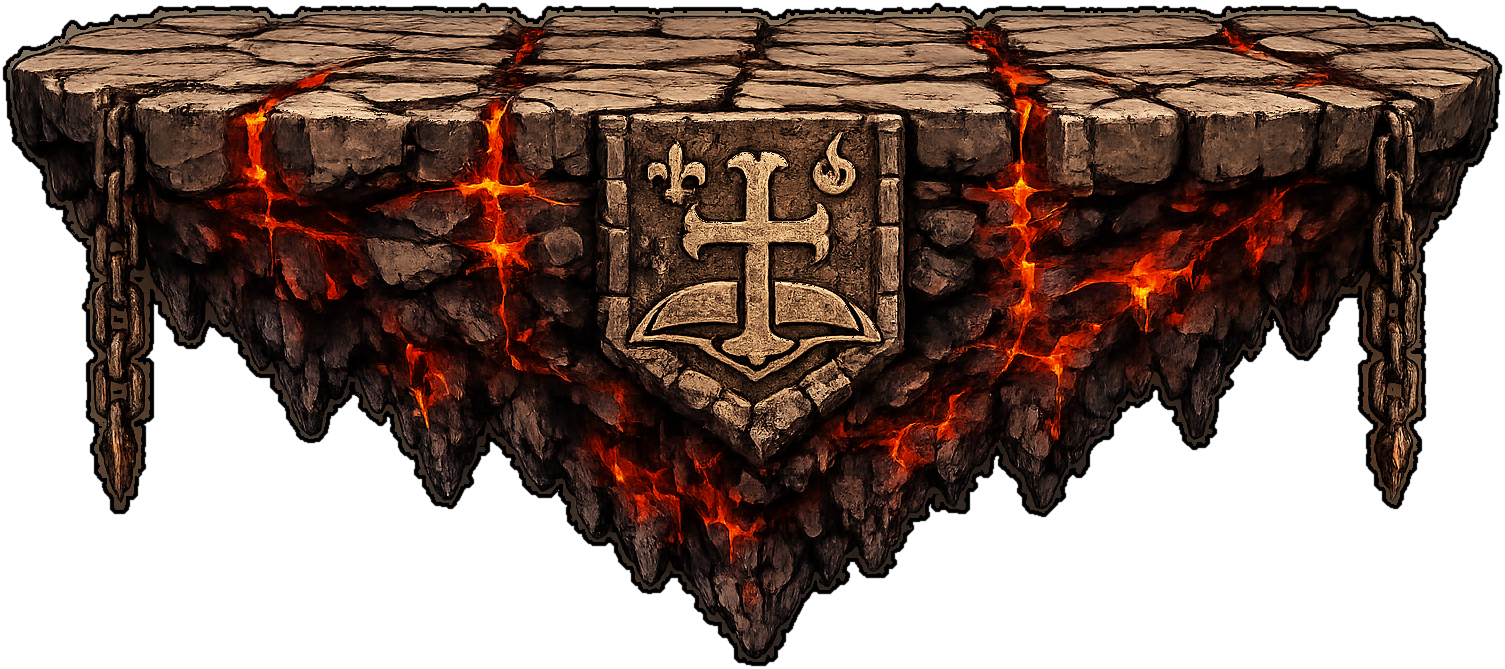
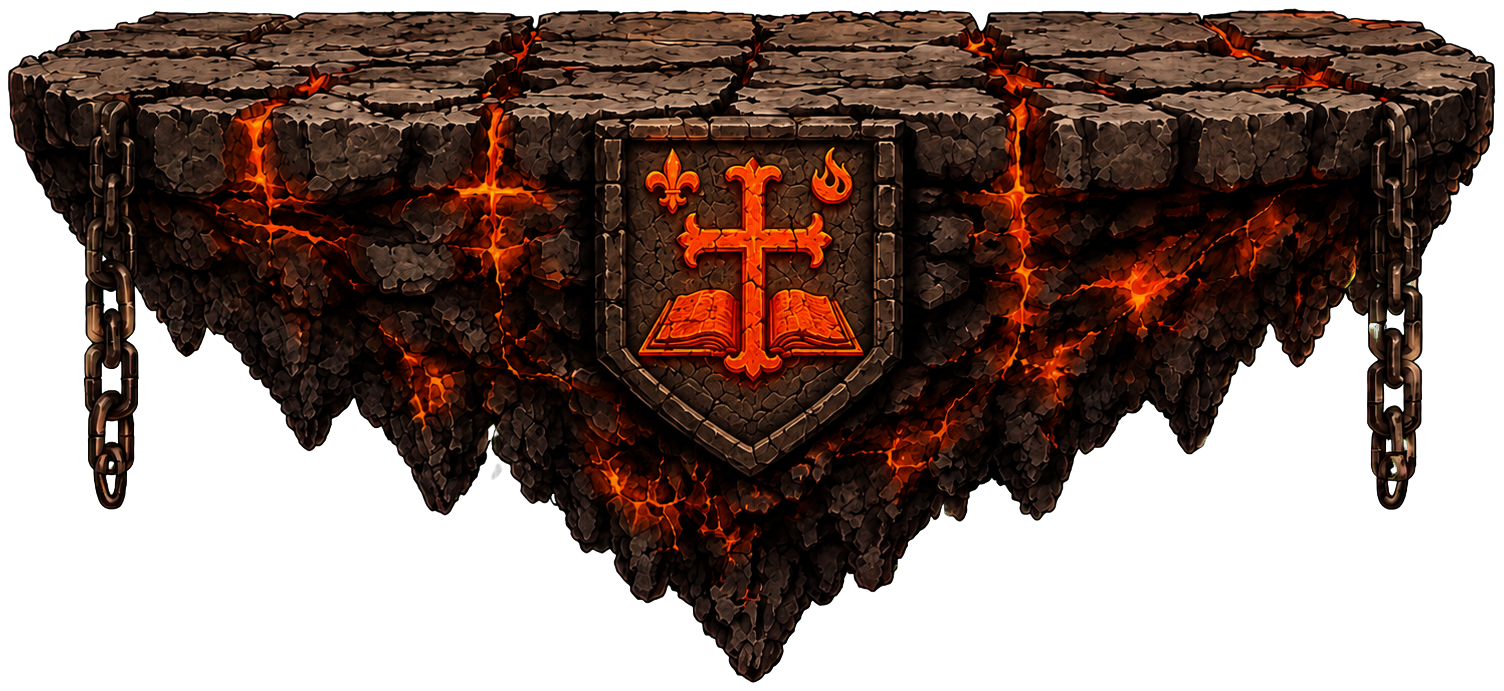
Replace Colt Run platform 16

diff --git a/app.js b/app.js
@@ -2081,6 +2081,7 @@ function startColtRunGame() {
   platformAssetVersions[12] = "20260718-platform13-replace1";
   platformAssetVersions[13] = "20260718-platform14-replace1";
   platformAssetVersions[14] = "20260718-platform15-replace1";
+  platformAssetVersions[15] = "20260719-platform16-replace1";
   platformAssetVersions[17] = "20260718-platform18-replace1";
   platformAssetVersions[20] = "20260718-platform21-replace1";
   const platformSpriteSources = platformAssetVersions.map((version, index) => (

diff --git a/index.html b/index.html
@@ -8,7 +8,7 @@
 </head>
 <body>
   <main id="app" class="app-shell"></main>
-  <script src="app.js?v=20260719-game-music-playlist1"></script>
+  <script src="app.js?v=20260719-platform16-replace1"></script>
 </body>
 </html>
 
